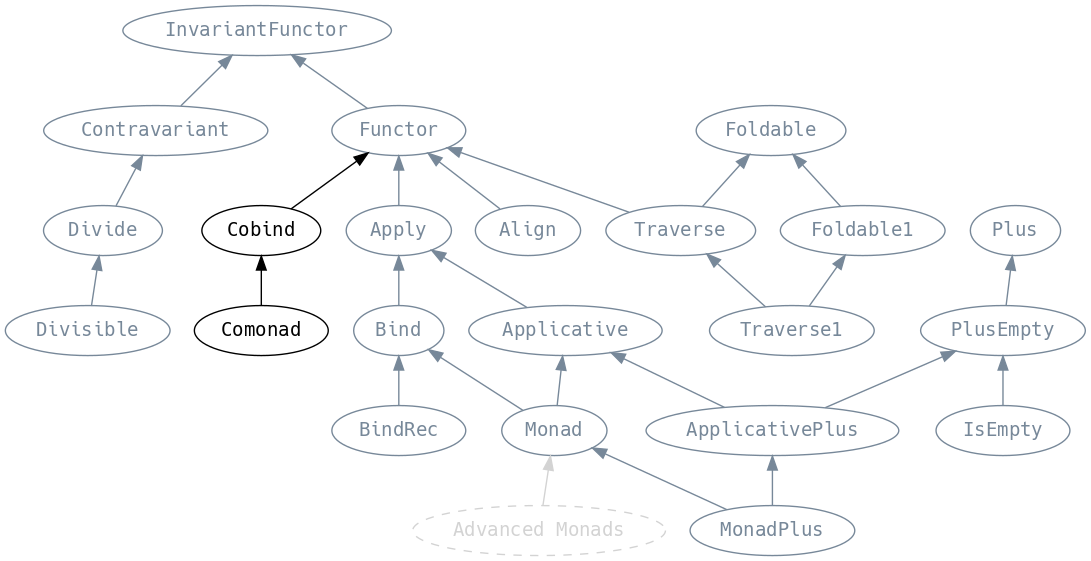
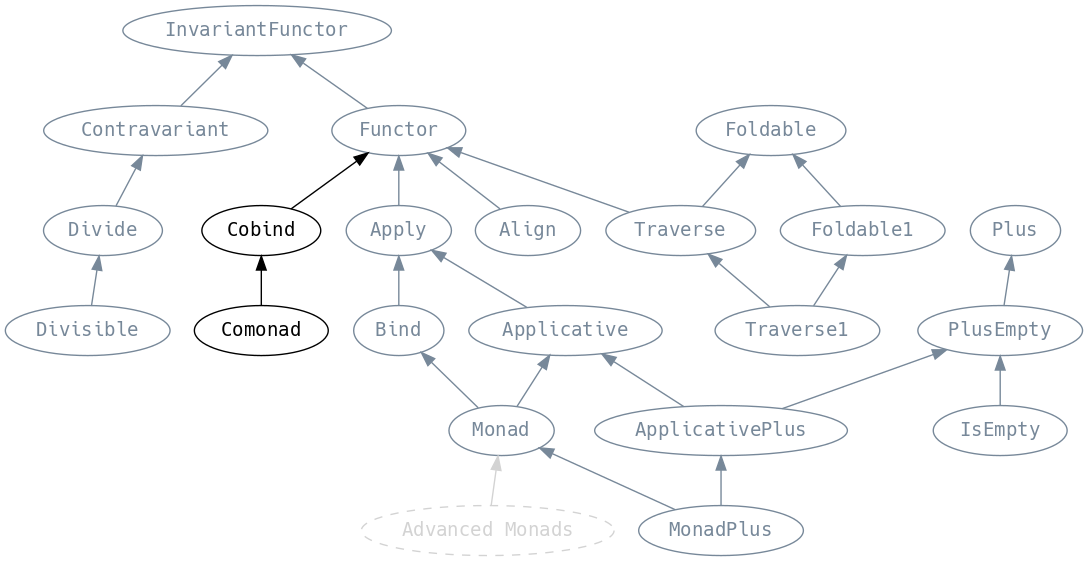
remove BindRec from the typeclasses chapter

diff --git a/manuscript/wip.md b/manuscript/wip.md
@@ -114,27 +114,9 @@ entrypoint of the application, invoking the side effects:
   def main(args: Array[String]): Unit = program.interpret()
 ~~~~~~~~
 
-We can also provide a `MonadError`, allowing us to write programs that can fail
-
-{lang="text"}
-~~~~~~~~
-  object IO {
-    ...
-    def fail[A](t: Throwable): IO[A] = IO(throw t)
-  
-    implicit val Monad = new MonadError[IO, Throwable] {
-      ...
-      def raiseError[A](e: Throwable): IO[A] = fail(e)
-      def handleError[A](fa: IO[A])(f: Throwable => IO[A]): IO[A] =
-        try IO(fa.interpret())
-        catch { case t: Throwable => f(t) }
-    }
-  }
-~~~~~~~~
-
 However, there are two big problems with this simple `IO`:
 
-1.  it doesn't implement `BindRec` and can stack overflow
+1.  it can stack overflow
 2.  it doesn't support parallel computations
 
 Both of these problems will be overcome in this chapter. However, no matter how
@@ -147,6 +129,56 @@ A> The scala compiler will happily allow us to call side effecting methods from
 A> unsafe code blocks. The [scalafix](https://scalacenter.github.io/scalafix/) linting tool can ban side effecting methods at
 A> compiletime, unless called from inside a deferred `Monad` like `IO`. This
 A> `DisableUnless` rule is an essential tool for writing FP in Scala.
+
+
+## TODO Trampolines and the `Free` Monad
+
+On the JVM, every runtime method call adds an entry to the call stack. When the
+method completes, it returns to the previous entry. The maximum depth of the
+call stack is determined by the `-Xss` flag when starting up `java`. Tail
+recursive methods are detected by the scala compiler and do not add an entry to
+the stack. If we hit the limit, by calling too many chained methods, we get
+a `StackOverflowException`.
+
+FIXME: Work in Progress
+
+
+### BindRec
+
+`BindRec` is a `Bind` that must use constant stack space when doing
+recursive `bind`. i.e. it's stack safe and can loop `forever` without
+blowing up the stack:
+
+{lang="text"}
+~~~~~~~~
+  trait BindRec[F[_]] extends Bind[F] {
+    def tailrecM[A, B](f: A => F[A \/ B])(a: A): F[B]
+  
+    override def forever[A, B](fa: F[A]): F[B] = ...
+  }
+~~~~~~~~
+
+Arguably `forever` should only be introduced by `BindRec`, not `Apply`
+or `Bind`.
+
+This is what we need to be able to implement the "loop forever" logic
+of our application.
+
+{lang="text"}
+~~~~~~~~
+  sealed abstract class Free[S[_], A] {
+  object Free {
+    type Trampoline[A] = Free[() => ?, A]
+  
+    private case class Return[S[_], A](a: A) extends Free[S, A]
+    private case class Suspend[S[_], A](a: S[A]) extends Free[S, A]
+    private case class Gosub[S[_], A0, B](
+      a: Free[S, A0],
+      f: A0 => Free[S, B]
+    ) extends Free[S, B] { type A = A0 }
+    ...
+  }
+~~~~~~~~
 
 
 # The Infinite Sadness

diff --git a/manuscript/complete.md b/manuscript/complete.md
@@ -4091,7 +4091,7 @@ repeating an effect without stopping. The instance of `Apply` must be
 stack safe or we'll get `StackOverflowError`.
 
 
-### Bind and BindRec
+### Bind
 
 `Bind` introduces `bind`, synonymous with `flatMap`, which allows
 functions over the result of an effect to return a new effect, or for
@@ -4174,39 +4174,6 @@ A> detail in the next chapter.
 
 `>>` is when we wish to discard the input to `bind` and `>>!` is when
 we want to run an effect but discard its output.
-
-
-### BindRec
-
-`BindRec` is a `Bind` that must use constant stack space when doing
-recursive `bind`. i.e. it's stack safe and can loop `forever` without
-blowing up the stack:
-
-{lang="text"}
-~~~~~~~~
-  trait BindRec[F[_]] extends Bind[F] {
-    def tailrecM[A, B](f: A => F[A \/ B])(a: A): F[B]
-  
-    override def forever[A, B](fa: F[A]): F[B] = ...
-  }
-~~~~~~~~
-
-Arguably `forever` should only be introduced by `BindRec`, not `Apply`
-or `Bind`.
-
-This is what we need to be able to implement the "loop forever" logic
-of our application.
-
-`\/`, called *disjunction*, is a data structure that we will discuss
-in the next chapter. It is an improvement of stdlib's `Either` and
-encodes two exclusive values:
-
-{lang="text"}
-~~~~~~~~
-  sealed abstract class \/[+A, +B]
-  final case class -\/ [+A](a: A) extends (A \/ Nothing)
-  final case class  \/-[+B](b: B) extends (Nothing \/ B)
-~~~~~~~~
 
 
 ## Applicative and Monad
@@ -5401,7 +5368,7 @@ A> don't. Because, lazy.
 
 `Name` provides instances of the following typeclasses
 
--   `Monad` / `BindRec`
+-   `Monad`
 -   `Comonad`
 -   `Distributive`
 -   `Traverse1`
@@ -5664,7 +5631,7 @@ and receive a `Maybe`
 
 -   `Align`
 -   `Traverse`
--   `MonadPlus` / `BindRec` / `IsEmpty`
+-   `MonadPlus` / `IsEmpty`
 -   `Cobind`
 -   `Cozip` / `Zip` / `Unzip`
 -   `Optional`
@@ -5808,7 +5775,7 @@ and nested `\/` must have parentheses, e.g. `(A \/ (B \/ (C \/ D))`.
 `\/` has right-biased (i.e. `flatMap` applies to `\/-`) typeclass
 instances for:
 
--   `Monad` / `BindRec` / `MonadError`
+-   `Monad` / `MonadError`
 -   `Traverse` / `Bitraverse`
 -   `Plus`
 -   `Optional`
@@ -6084,7 +6051,7 @@ back-ticks, or as `.wrapThis`.
 
 `These` has typeclass instances for
 
--   `Monad` / `BindRec`
+-   `Monad`
 -   `Bitraverse`
 -   `Traverse`
 -   `Cobind`
@@ -6371,7 +6338,7 @@ typeclass instances, we shall avoid repeating the list, which is often some vari
 
 -   `Monoid`
 -   `Traverse` / `Foldable`
--   `MonadPlus` / `IsEmpty` / `BindRec`
+-   `MonadPlus` / `IsEmpty`
 -   `Cobind` / `Comonad`
 -   `Zip` / `Unzip`
 -   `Align`

diff --git a/manuscript/remaining.md b/manuscript/remaining.md
@@ -1,15 +1,35 @@
 
+## TODO Free / FreeAp / Cofree
+
+
+## TODO Parallelism and `Task`
+
+And also the issue of parallelisation of applicatives vs the sequential nature of Monad
+
+
 ## TODO Extending from Monad
 
-I> The [scalafix](https://scalacenter.github.io/scalafix/) linting tool can be used to enforce, at compiletime, that you do
-I> not call any known side-effecting functions from a `Future` (or anywhere else,
-I> for that matter).
+this is a bit ambiguous... state / reader / etc?
 
 incl ComonadStore
 
-functor and applicative compose, monad doesn't, it's annoying, one or two detailed examples but mostly just listing what is available.
+We can also provide a `MonadError`, allowing us to write programs that can fail
 
-And also the issue of parallelisation of applicatives vs the sequential nature of Monad
+{lang="text"}
+~~~~~~~~
+  object IO {
+    ...
+    def fail[A](t: Throwable): IO[A] = IO(throw t)
+  
+    implicit val Monad = new MonadError[IO, Throwable] {
+      ...
+      def raiseError[A](e: Throwable): IO[A] = fail(e)
+      def handleError[A](fa: IO[A])(f: Throwable => IO[A]): IO[A] =
+        try IO(fa.interpret())
+        catch { case t: Throwable => f(t) }
+    }
+  }
+~~~~~~~~
 
 
 ## TODO Monad Transformers
@@ -42,6 +62,8 @@ And also the issue of parallelisation of applicatives vs the sequential nature o
 
 ## TODO optimisation
 
+Analogous to bytecode instrumentation.
+
 Try this with the `act` in our example app. It's tricky because we have two algebras.
 
 {lang="text"}
@@ -71,11 +93,7 @@ Try this with the `act` in our example app. It's tricky because we have two alge
 ~~~~~~~~
 
 
-## TODO Free Monad
-
--   FreeAp
--   Cofree
--   Free
+## TODO Other
 
 -   [smock](https://github.com/djspiewak/smock)
 
